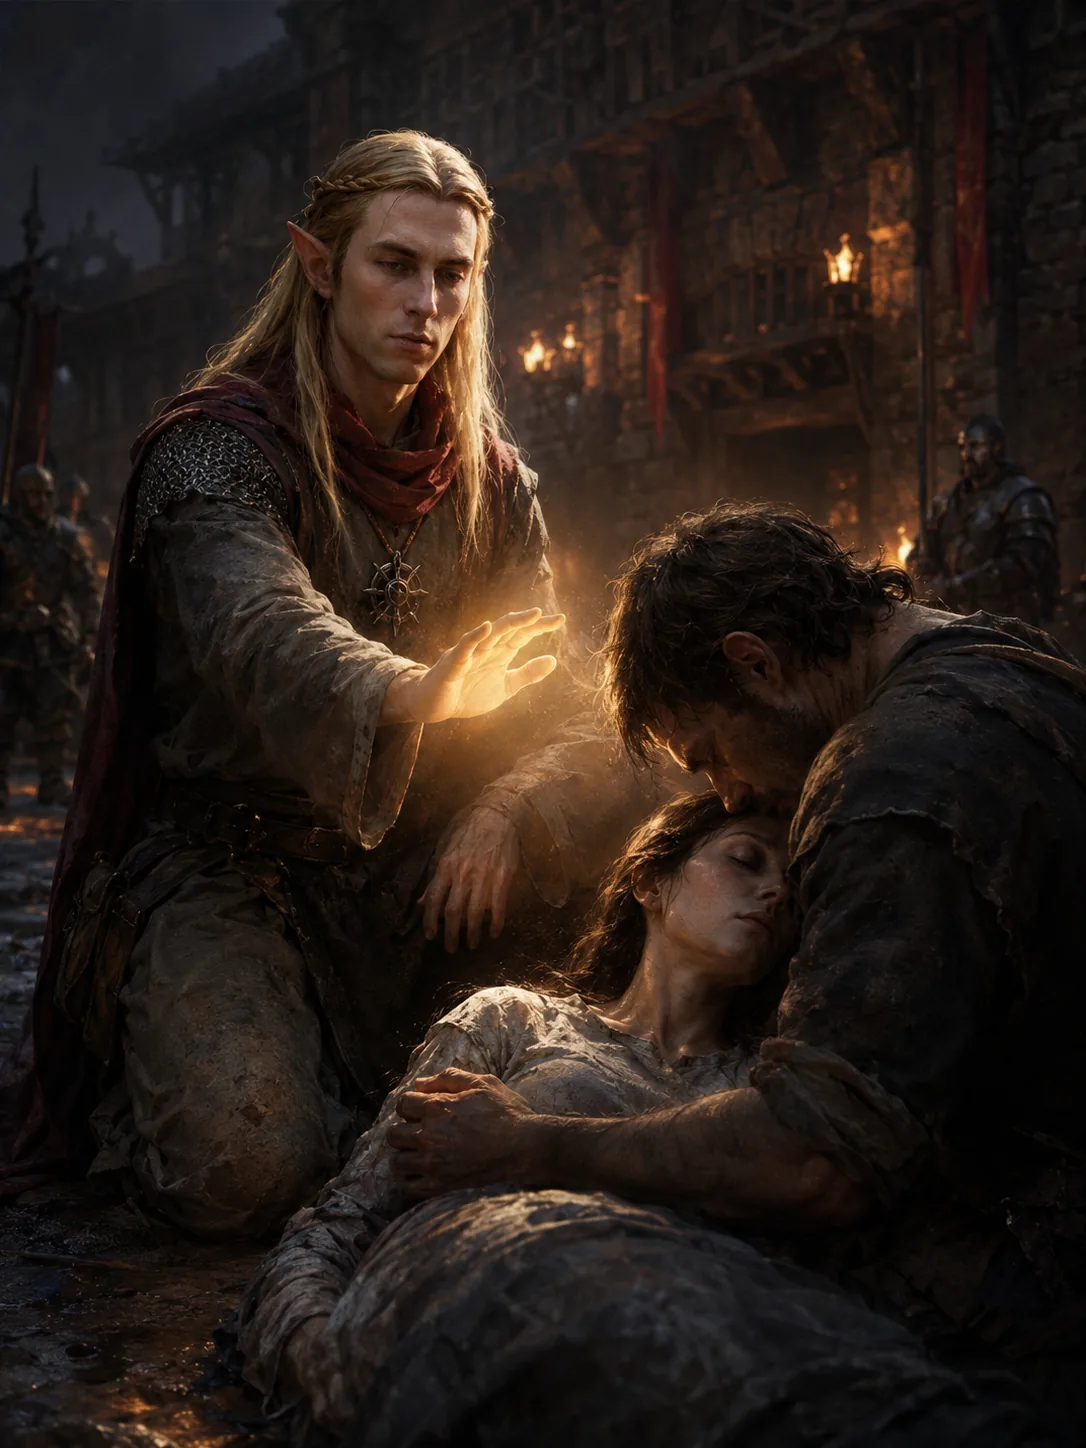
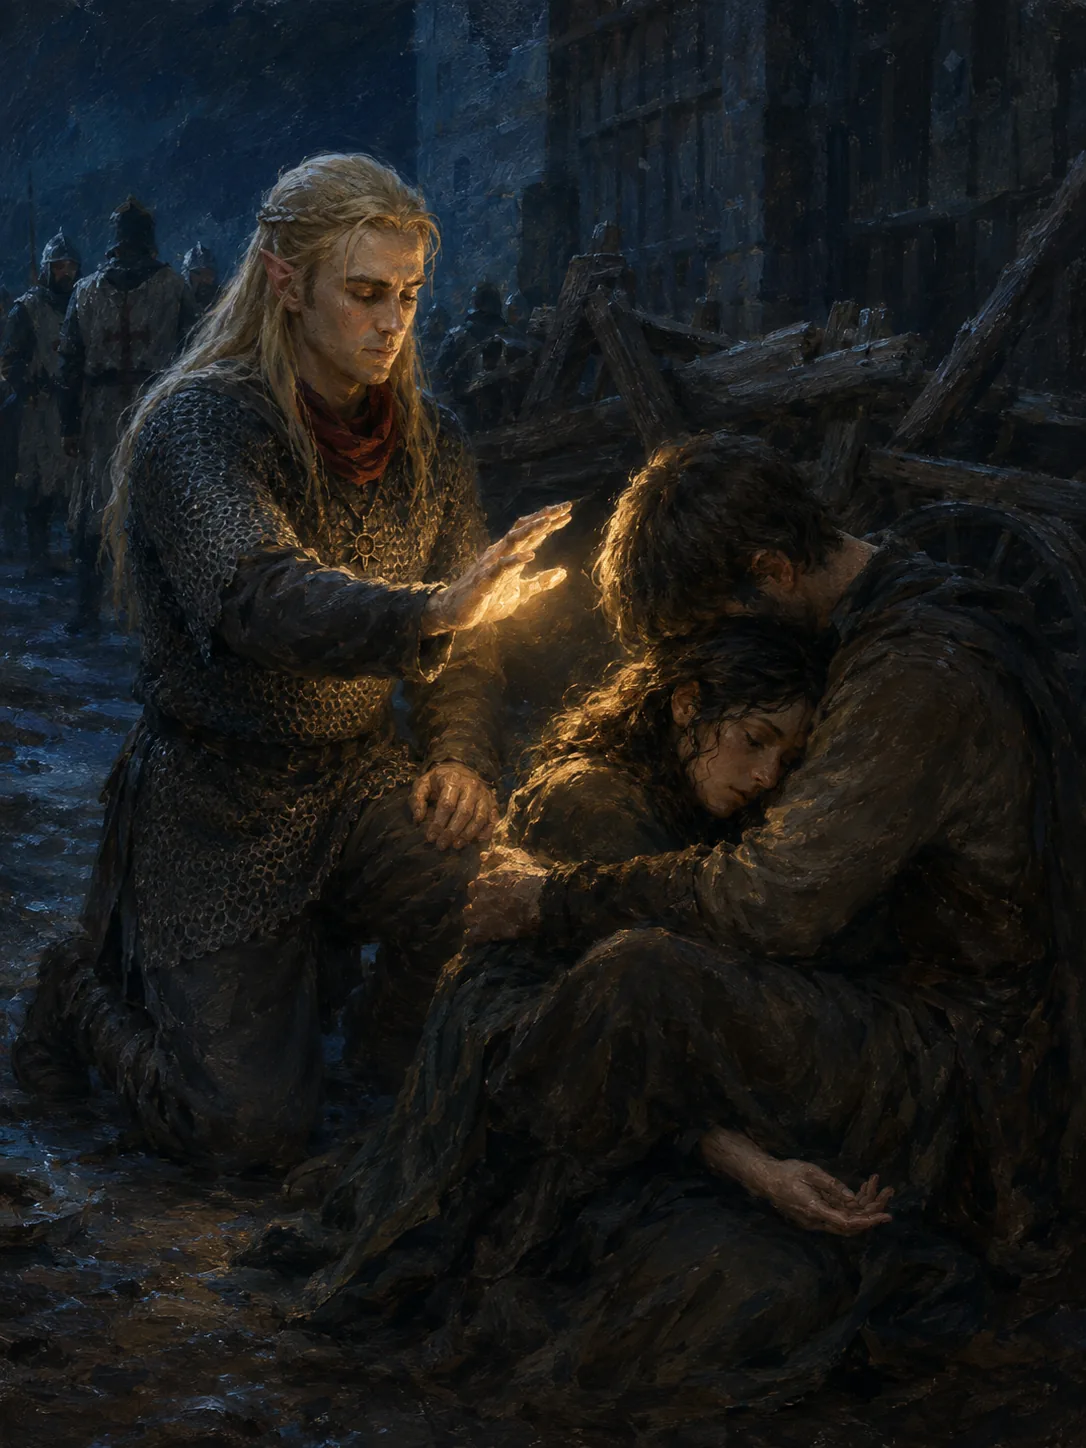
Re-roll the blessing of the dawn
The original was photoreal under a warm orange bath from the braziers,
with a long thin hollow face that was not Varic's, long full-elf ears,
the portrait-only red mantle, and the holy symbol drawn as a spoked
compass rose.

Rebuilt on the oil-painting block. The face is stated positively as full,
even-featured and youthful, with the gaunt-face words excluded; ears
pinned subtly pointed and short. Era I kit -- battered chain shirt over
travel robes, deep-red scarf, no mantle -- and the sunburst described as
a bare disc with plain rays and nothing inside it. Confirmed bare at
magnification. Lit cold blue with the open palm as the only source.

Accepted drift: the sun reads brass rather than dull iron, consistent
with the re-rolled burning sky.

The refusal risk did not materialise. The beat rides entirely on posture
and light, and no body or death vocabulary appears anywhere in the
prompt -- including in the Avoid line, which is what tripped the earlier
refusal on rabiahs-raw-magic. Rendered first try.

diff --git a/bible/07-art-reroll-list.md b/bible/07-art-reroll-list.md
@@ -20,40 +20,6 @@ with a counter-example.
 
 ## To do
 
-### `the-blessing-of-the-dawn.webp` — **wrong style, and the face is not Varic**
-*Book I, the gates of Defender's Heart — Varic kneels over a man who would not put down his wife, and
-calls the light of Sarenrae down to warm them both.*
-
-**Style:** photoreal again — skin pores, a photographic sheen on every wet surface, and a warm
-all-over orange bath from the braziers instead of one placed accent. Lead with the medium block and
-put the camera words in `Avoid:`.
-
-**Likeness:** it is not his face. Held against
-[`../characters/varic.webp`](../characters/varic.webp) the render gives him a long, thin, hollow face
-with a heavy jaw and a receding hairline, where the portrait is a fuller, younger, even-featured
-half-elf with grey-blue eyes. **His ears are long tapered elf ears here; he is a HALF-elf and they
-should be subtly pointed**, closer to Harlock's than to Lupenor's. Attach the portrait and describe
-the face positively rather than trusting "half-elf priest" to carry it.
-
-**Kit — two real faults, and one thing not to flag:**
-- **The red mantle over his shoulder is portrait-only in every era** and does not belong in any
-  scene. `a red mantle or cloak` goes in `Avoid:`.
-- **Era I is humble**: a plain battered chain shirt or padded leather over simple travel robes, the
-  deep-red scarf, a **plain iron sunburst — a bare stylised sun with no sword** and no compass-rose
-  spokes. The render's mail sleeve and dressier layering push him toward his later look.
-- **Do NOT flag the gold band in his hair.** It is his hair — see *The circlet is not a fault* in the
-  kit guide. It has cost review cycles before.
-
-**Keep:** the beat and the staging are right — him kneeling, the hand held over the pair, the
-blessing as the only warm light in a cold blue night, and crusaders standing off in the gloom.
-
-⚠ **Prompt this one carefully.** The subject is a man holding his wife's body, and naming that
-plainly — in the body *or* in `Avoid:` — is what gets a prompt refused (see the `Avoid:`-line rule in
-`CANON.md`'s *Known drift*, and the refusal on `rabiahs-raw-magic` above). Carry it entirely through
-posture and light: a man on his knees with his face bowed to the hair of the woman he is holding, her
-weight gone slack against him, and Varic's lit hand held over them both. Keep every body word out of
-both halves of the prompt.
-
 ### `the-kindling-of-radiance.webp` — **both likenesses drifted**
 *Book I, Defender's Heart — Harlock speaks the Code of Iomedae, light climbs the dead blade and wakes
 it, and Irabeth looks on in wonder.*
@@ -99,6 +65,35 @@ Regenerate to the humble kit, or accept the drift and note it as accepted.
 ---
 
 ## Done
+
+### `the-blessing-of-the-dawn.webp` — re-rolled Aug 2026
+*Book I, the gates of Defender's Heart.*
+
+The original was photoreal under a warm all-over orange bath from the braziers, with a long, thin,
+hollow face that was not Varic's, long tapered full-elf ears, the portrait-only red mantle, and a
+holy symbol rendered as a spoked compass rose. All of it is fixed: oil-painting medium block with
+the camera words in `Avoid:`; the face stated positively as full, even-featured and youthful with a
+full hairline, and the gaunt-face words excluded; ears pinned as **subtly pointed and short**. Era I
+kit — battered chain shirt over travel robes with plain cloth sleeves, deep-red scarf, no mantle —
+and the sunburst described as a bare disc with plain triangular rays and *nothing inside or in front
+of it*, with `a compass rose, a spoked wheel, spokes radiating inside the disc` in `Avoid:`.
+Confirmed bare at magnification. **Accepted drift:** the sun reads brass-toned rather than dull iron,
+the same as the re-rolled `the-burning-sky` — consistent across both, so it stands.
+
+Lit as the entry asked: cold blue-black night, the priest's open palm the only source, with
+`braziers or torches lighting the whole frame` and `many light sources` excluded to stop the orange
+bath returning.
+
+**The refusal never came, and the method is worth reusing.** This was the highest-risk prompt on the
+list. The whole beat rode on posture and light — she is at rest against him with her eyes closed and
+her head turned into his shoulder, he is folded inward with his face bowed into her hair — and **not
+one body or death word appeared in the prompt, including in `Avoid:`**. The scene was framed
+positively as comfort and blessing rather than as an absence of harm. It rendered first try.
+*The temptation is to protect such a scene by listing what you don't want; that is exactly what gets
+it refused.*
+
+*(Per Matt's standing ruling, the gold band in his hair was neither prompted against nor flagged at
+QA. It is his temple braid.)*
 
 ### `the-inheritors-kiss.webp` — re-rolled Aug 2026
 *Book I, the mythic dream. Used TWICE — `source/book-1-the-worldwound-incursion.md` and
